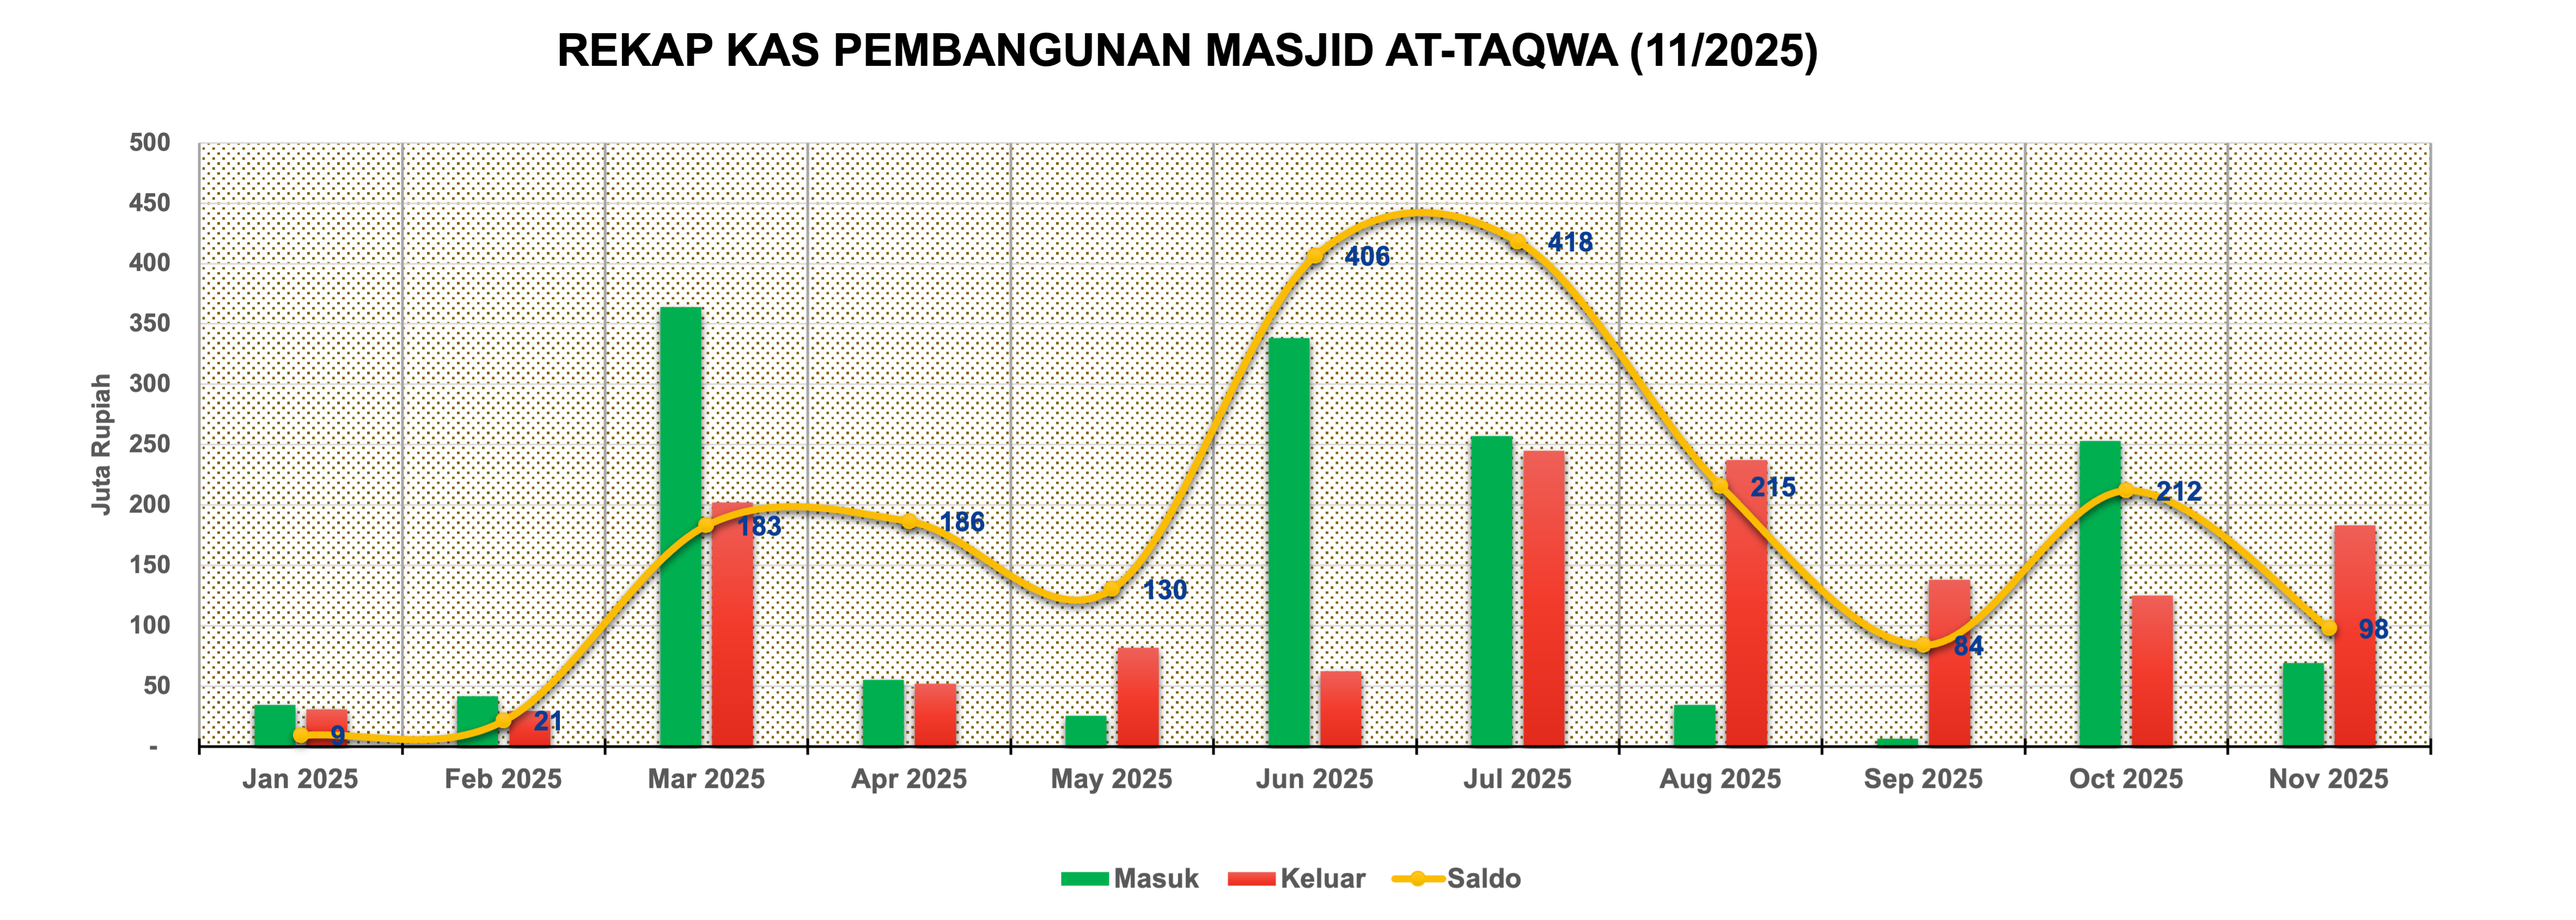
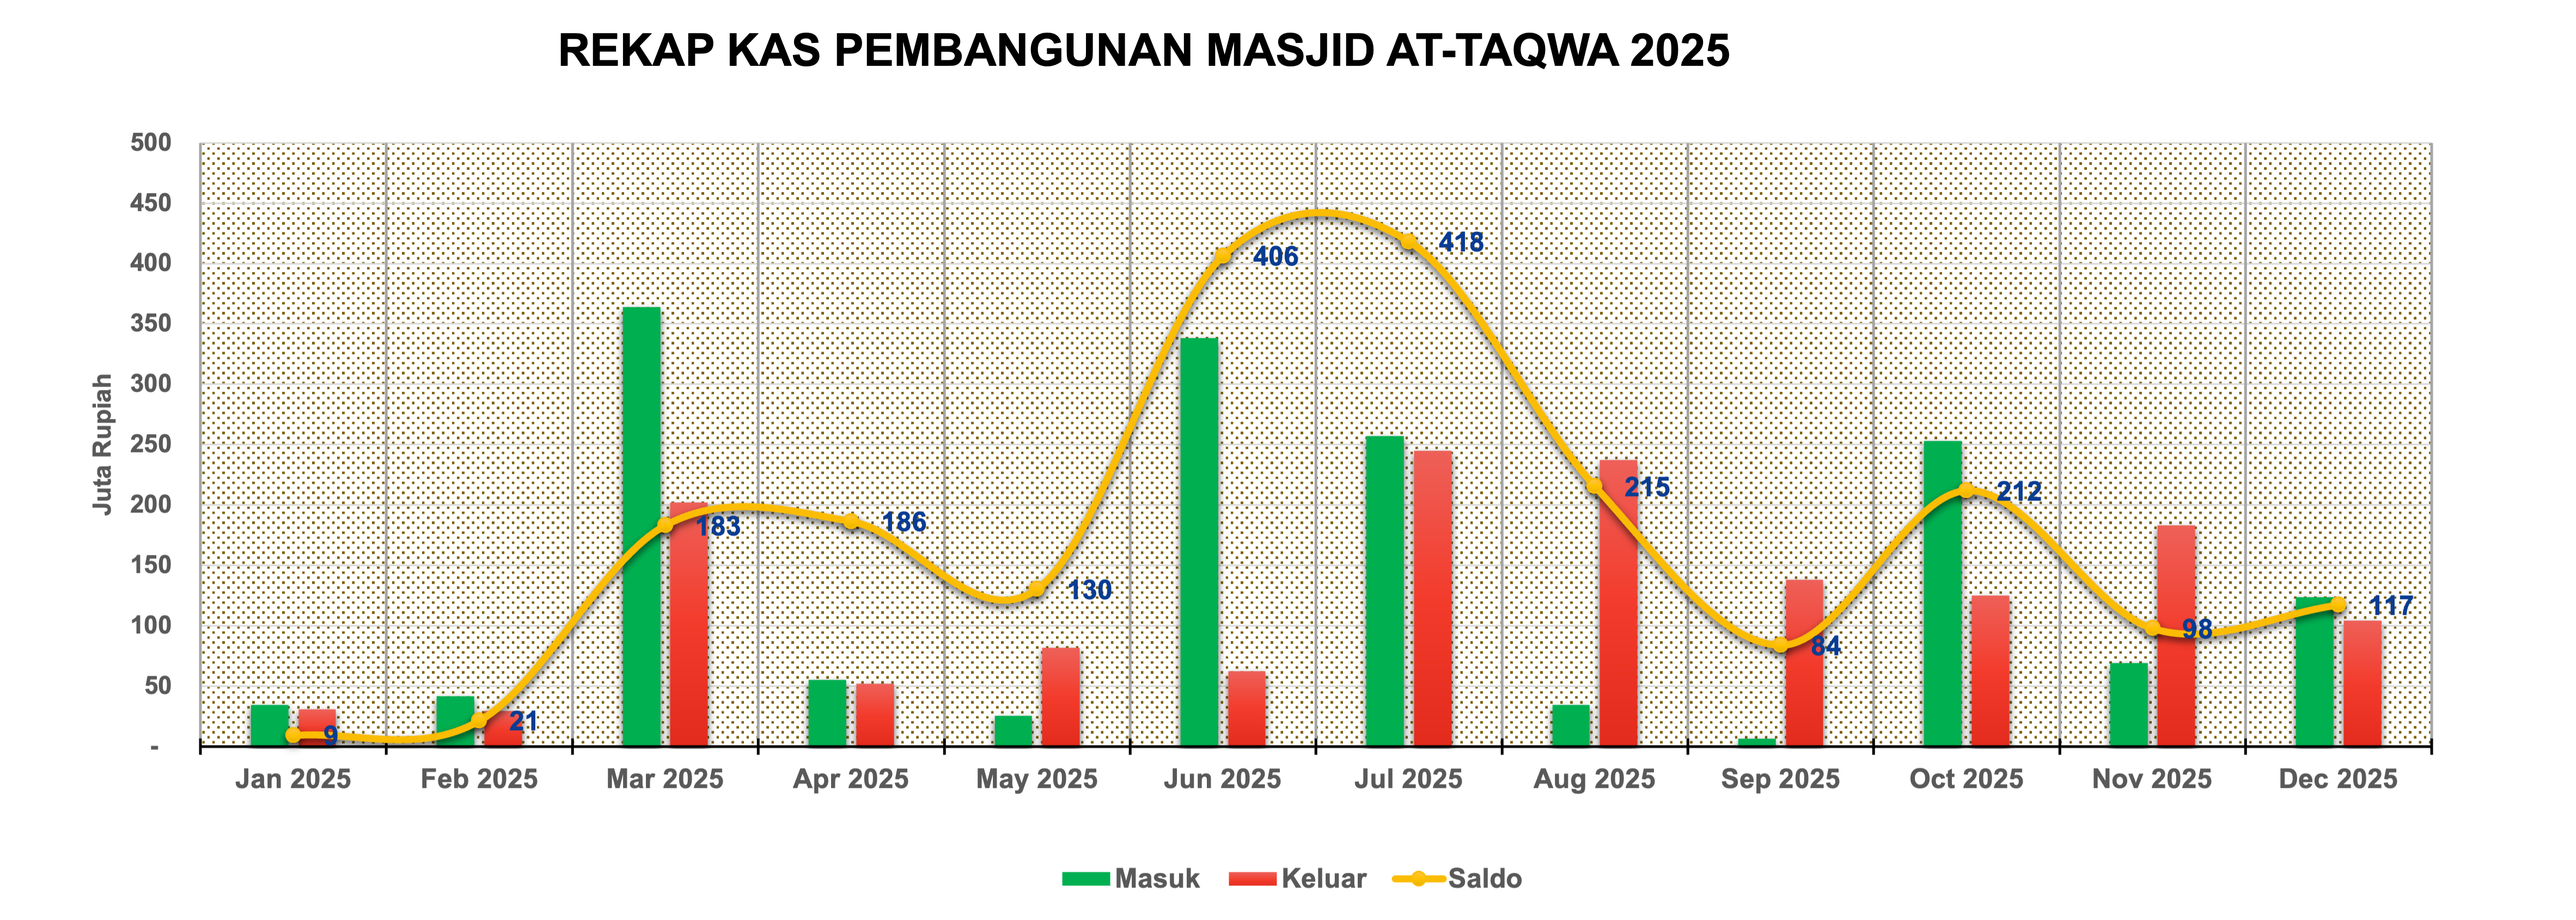
2026

diff --git a/pages/keuangan.html b/pages/keuangan.html
@@ -1,22 +1,22 @@
 <div class="w-full mb-3 text-black">
     <div class="grid grid-cols-1 md:grid-cols-2 gap-20 text-lg">
         <div id="pnl-pembangunan" class="ml-10">
-            <p class="font-bold mb-3 mt-4">KAS PEMBANGUNAN NOVEMBER 2025</p>
+            <p class="font-bold mb-3 mt-4">KAS PEMBANGUNAN DESEMBER 2025</p>
             <table class="w-full">
                 <tr>
-                    <td style="width: 55%;">Saldo Oktober 2025</td>
+                    <td style="width: 55%;">Saldo November 2025</td>
                     <td style="width: 10px;">:</td>
-                    <td style="width: 35%; text-align: right;">211.933.740</td>
+                    <td style="width: 35%; text-align: right;"> 97.771.922 </td>
                 </tr>
                 <tr class="mt-2">
                     <td style="width: 55%;">Pemasukan</td>
                     <td style="width: 10px;">:</td>
-                    <td style="width: 35%; text-align: right;">69.075.227</td>
+                    <td style="width: 35%; text-align: right;">123.676.000</td>
                 </tr>
                 <tr>
                     <td style="width: 55%;">Pengeluaran</td>
                     <td style="width: 10px;">:</td>
-                    <td style="width: 35%; text-align: right;">183.237.045</td>
+                    <td style="width: 35%; text-align: right;">104.262.500</td>
                 </tr>
                 <tr>
                     <td colspan="3"><hr/></td>
@@ -24,7 +24,7 @@
                  <tr">
                     <td style="width: 55%;">Saldo</td>
                     <td style="width: 10px;">:</td>
-                    <td style="width: 35%; text-align: right;"  class="text-xl font-bold">97.771.922</td>
+                    <td style="width: 35%; text-align: right;"  class="text-xl font-bold">117.185.422</td>
                 </tr>
             </table>
             <br/>
@@ -33,12 +33,12 @@
                 <tr class="mt-2">
                     <td style="width: 55%;">Pemasukan</td>
                     <td style="width: 10px;">:</td>
-                    <td style="width: 35%; text-align: right;">4.990.909.000</td>
+                    <td style="width: 35%; text-align: right;">5.114.585.262</td>
                 </tr>
                 <tr>
                     <td style="width: 55%;">Pengeluaran</td>
                     <td style="width: 10px;">:</td>
-                    <td style="width: 35%; text-align: right;">4.893.137.000</td>
+                    <td style="width: 35%; text-align: right;">4.997.399.840</td>
                 </tr>
                 <tr>
                     <td colspan="3"><hr/></td>
@@ -46,27 +46,27 @@
                  <tr">
                     <td style="width: 55%;">Saldo</td>
                     <td style="width: 10px;">:</td>
-                    <td style="width: 35%; text-align: right;" class="text-xl font-bold">97.772.000</td>
+                    <td style="width: 35%; text-align: right;" class="text-xl font-bold">117.185.422</td>
                 </tr>
             </table>
         </div>
         <div id=""pnl-takmir class="mr-10">
-            <p class="font-bold mb-3 mt-4 text">KAS TAKMIR NOVEMBER 2025</p>
+            <p class="font-bold mb-3 mt-4 text">KAS TAKMIR DESEMBER 2025</p>
             <table class="w-full">
                 <tr>
-                    <td style="width: 55%;">Saldo Oktober 2025</td>
+                    <td style="width: 55%;">Saldo November 2025</td>
                     <td style="width: 10px;">:</td>
-                    <td style="width: 35%; text-align: right;">73.232.950</td>
+                    <td style="width: 35%; text-align: right;">74.050.950</td>
                 </tr>
                 <tr>
                     <td style="width: 55%;">Pemasukan</td>
                     <td style="width: 10px;">:</td>
-                    <td style="width: 35%; text-align: right;">6.018.000</td>
+                    <td style="width: 35%; text-align: right;">7.582.000</td>
                 </tr>
                 <tr>
                     <td style="width: 55%;">Pengeluaran</td>
                     <td style="width: 10px;">:</td>
-                    <td style="width: 35%; text-align: right;">5.200.000</td>
+                    <td style="width: 35%; text-align: right;">4.818.000</td>
                 </tr>
                 <tr>
                     <td colspan="3"><hr/></td>
@@ -74,7 +74,7 @@
                  <tr>
                     <td style="width: 55%;">Saldo</td>
                     <td style="width: 10px;">:</td>
-                    <td style="width: 35%; text-align: right;" class="text-xl font-bold">74.050.950</td>
+                    <td style="width: 35%; text-align: right;" class="text-xl font-bold">76.814.950</td>
                 </tr>
             </table>
             <br/>
@@ -88,7 +88,7 @@
                 <tr>
                     <td style="width: 55%;">Pengeluaran</td>
                     <td style="width: 10px;">:</td>
-                    <td style="width: 35%; text-align: right;">27.604.000</td>
+                    <td style="width: 35%; text-align: right;">28.454.000</td>
                 </tr>
                 <tr>
                     <td colspan="3"><hr/></td>
@@ -96,7 +96,7 @@
                  <tr">
                     <td style="width: 55%;">Saldo</td>
                     <td style="width: 10px;">:</td>
-                    <td style="width: 35%; text-align: right;" class="text-xl font-bold">2.246.000</td>
+                    <td style="width: 35%; text-align: right;" class="text-xl font-bold">1.396.000</td>
                 </tr>
             </table>
         </div>
